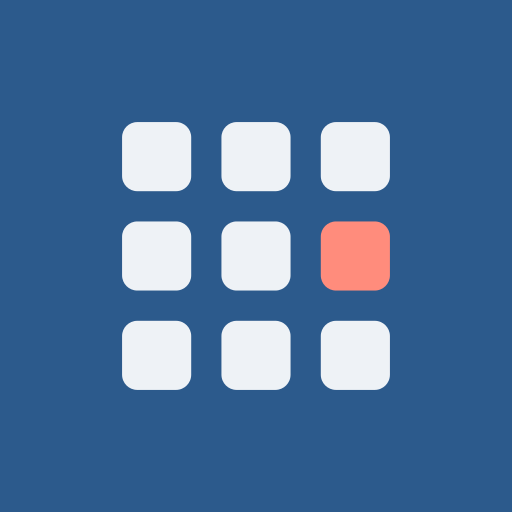
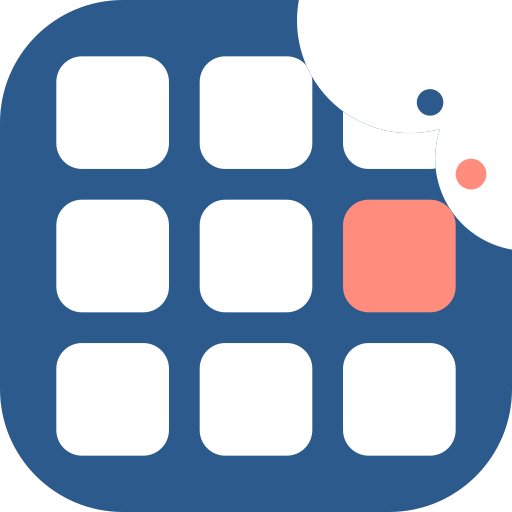
이름을 '출석부 냠냠'으로 바꾸고 냠냠 시리즈 아이콘 적용
Claude-Session: https://claude.ai/code/session_01SYCkTXj35o98KzQxfAfixy

diff --git a/index.html b/index.html
@@ -5,12 +5,12 @@
 <meta name="viewport" content="width=device-width, initial-scale=1, viewport-fit=cover">
 <meta name="theme-color" content="#F2F4F7" media="(prefers-color-scheme: light)">
 <meta name="theme-color" content="#0F1620" media="(prefers-color-scheme: dark)">
-<title>수업 출석부</title>
+<title>출석부 냠냠</title>
 <link rel="manifest" href="manifest.webmanifest">
 <link rel="icon" href="icon-192.png">
 <link rel="apple-touch-icon" href="apple-touch-icon.png">
 <meta name="apple-mobile-web-app-capable" content="yes">
-<meta name="apple-mobile-web-app-title" content="출석부">
+<meta name="apple-mobile-web-app-title" content="출석부 냠냠">
 <link rel="preconnect" href="https://fonts.googleapis.com">
 <link rel="preconnect" href="https://fonts.gstatic.com" crossorigin>
 <link href="https://fonts.googleapis.com/css2?family=Do+Hyeon&family=IBM+Plex+Sans+KR:wght@400;500;600&display=swap" rel="stylesheet">
@@ -551,7 +551,7 @@ function renderHome() {
     <div class="sync-line" id="sync-line"></div>`;
   }
   app.innerHTML = `
-    <header class="bar"><div class="wrap"><h1>수업 출석부</h1><span class="sub">${today}</span><button class="icon-btn lbl drive-btn" data-act="settings" aria-label="구글 드라이브 백업"><span class="ic">${ICON.drive}<i class="st-dot" id="st-dot"></i></span>구글 드라이브<span class="st-text" id="st-text"></span></button></div></header>
+    <header class="bar"><div class="wrap"><h1>출석부 냠냠</h1><span class="sub">${today}</span><button class="icon-btn lbl drive-btn" data-act="settings" aria-label="구글 드라이브 백업"><span class="ic">${ICON.drive}<i class="st-dot" id="st-dot"></i></span>구글 드라이브<span class="st-text" id="st-text"></span></button></div></header>
     <main class="wrap">
       ${classes.length ? "" : termChip()}
       ${body}

diff --git a/sw.js b/sw.js
@@ -1,5 +1,5 @@
 // 오프라인 캐시: 앱 파일은 저장해 두고, 인터넷이 되면 새 버전으로 갱신
-const CACHE = "attendance-v44";
+const CACHE = "attendance-v45";
 const CORE = ["./", "./index.html", "./xlsx.full.min.js", "./manifest.webmanifest", "./icon-192.png", "./icon-512.png"];
 
 self.addEventListener("install", e => {
